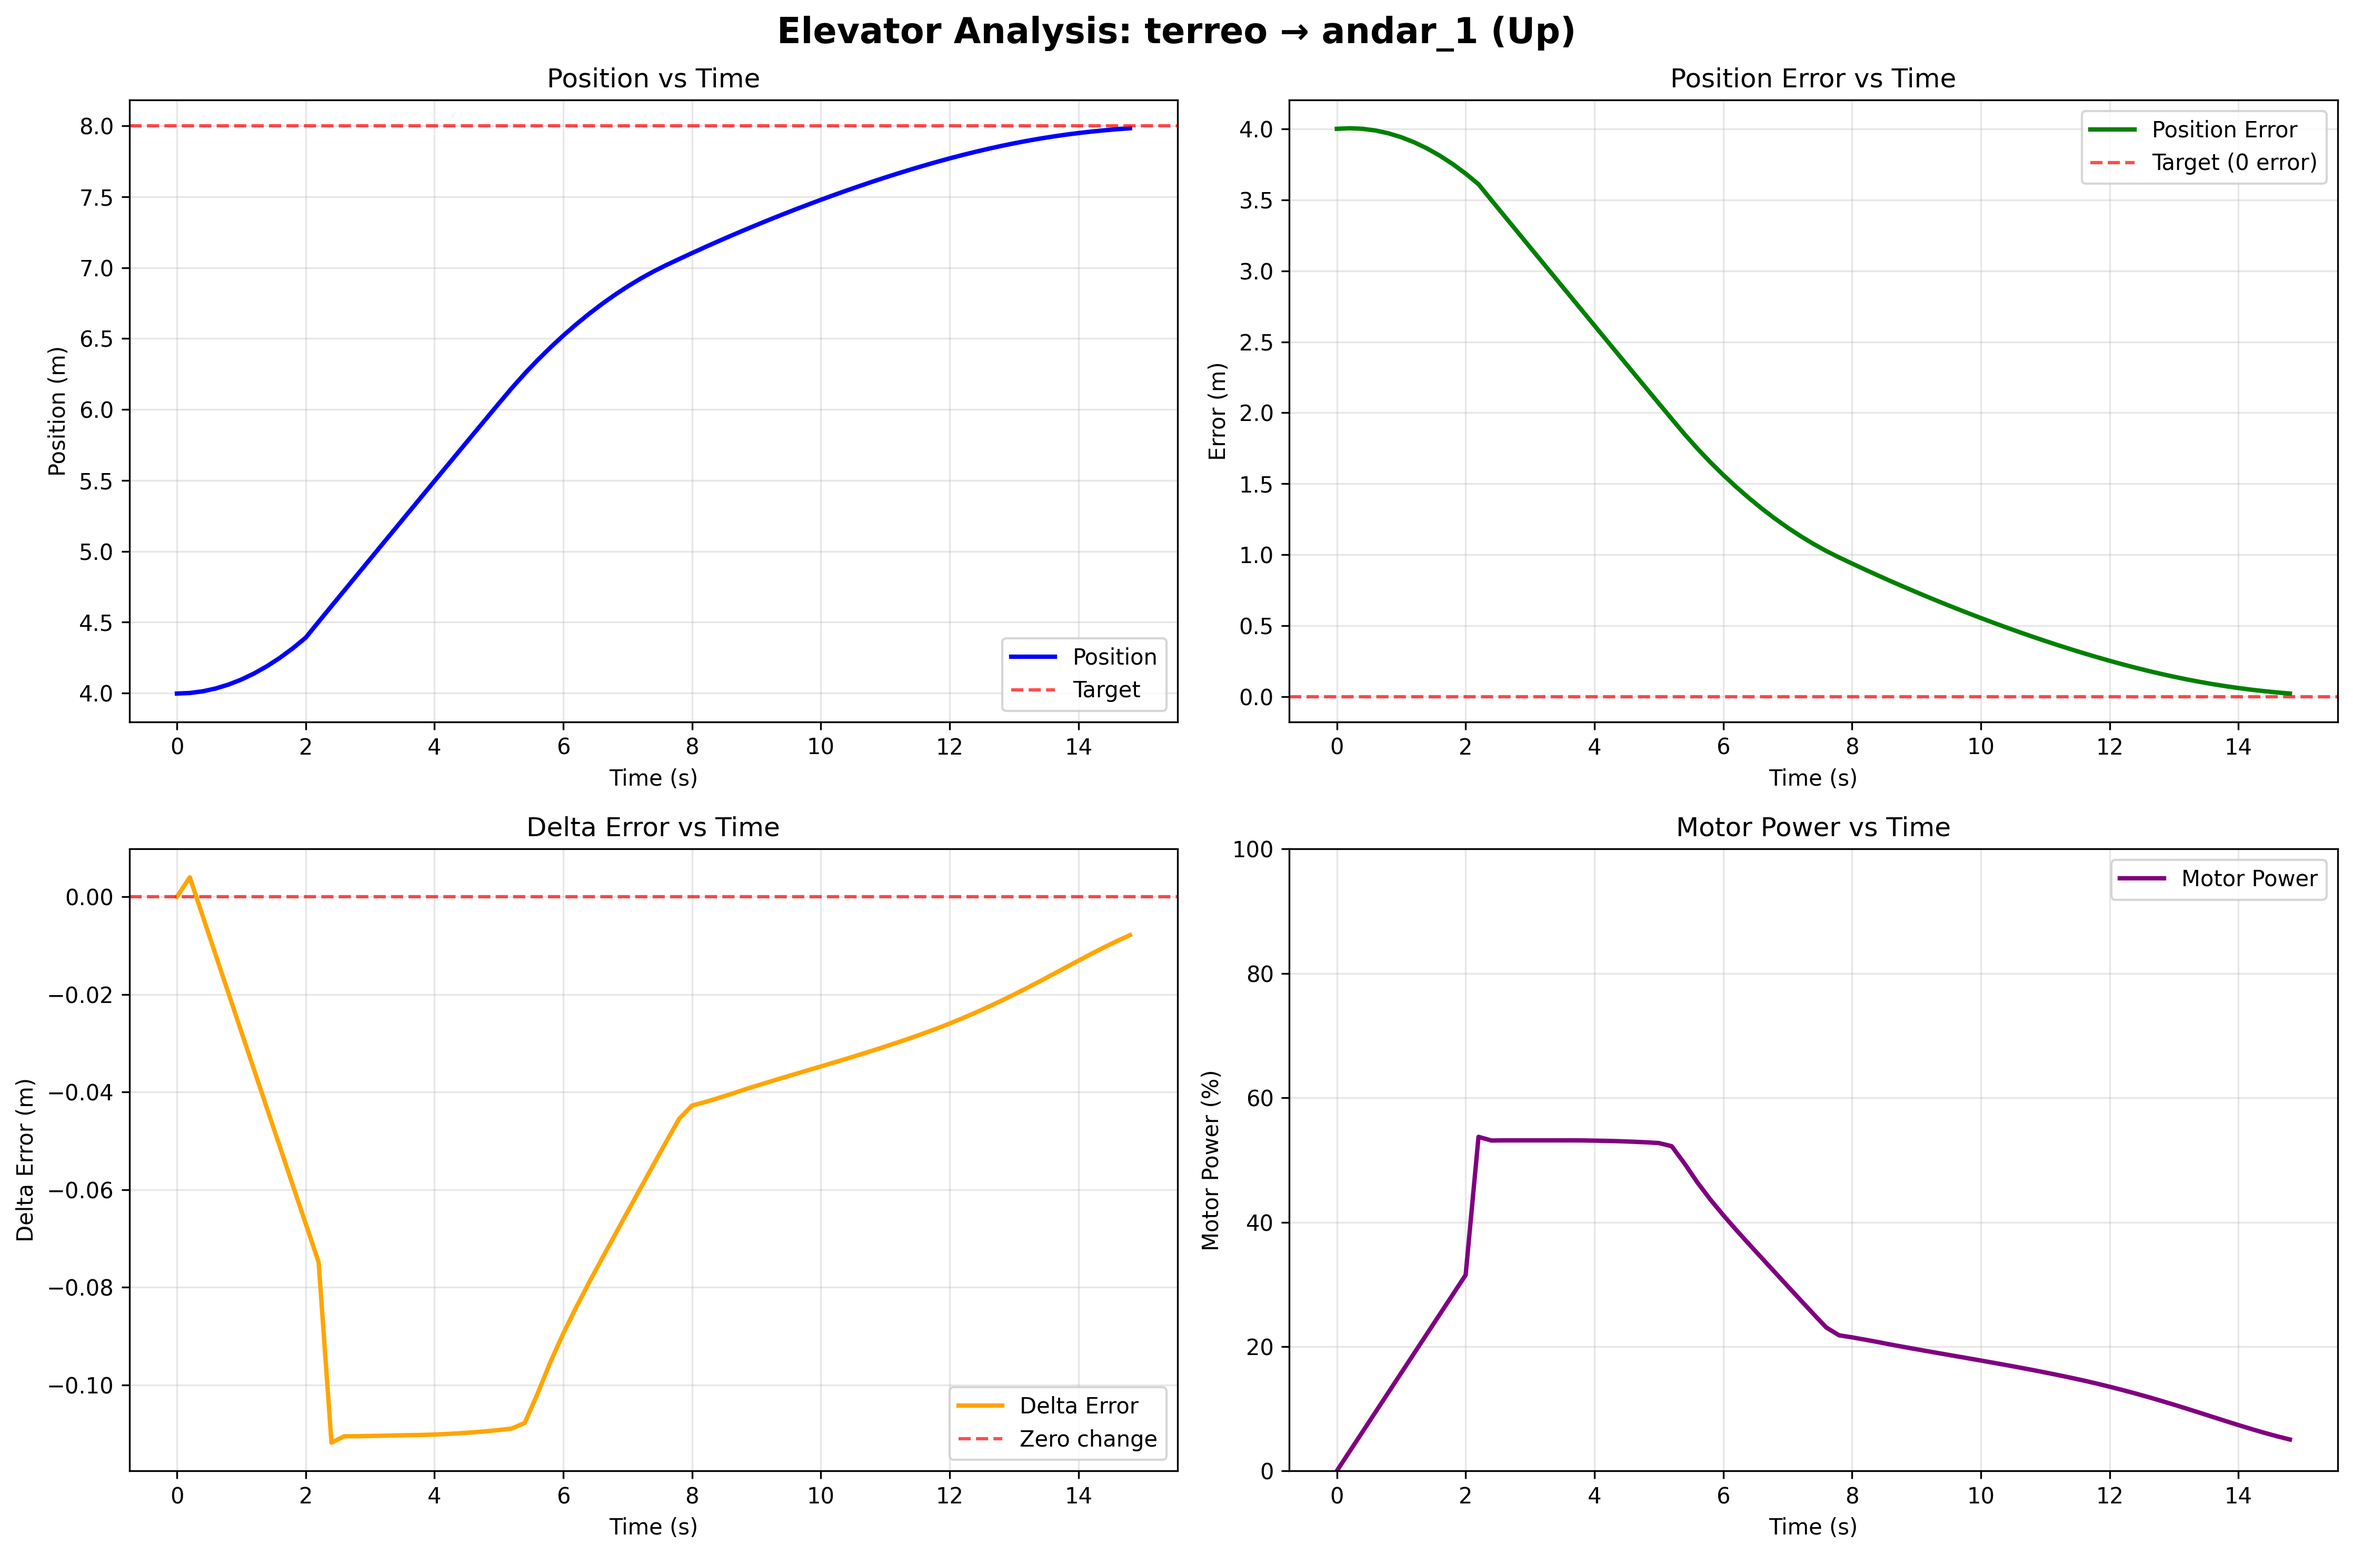
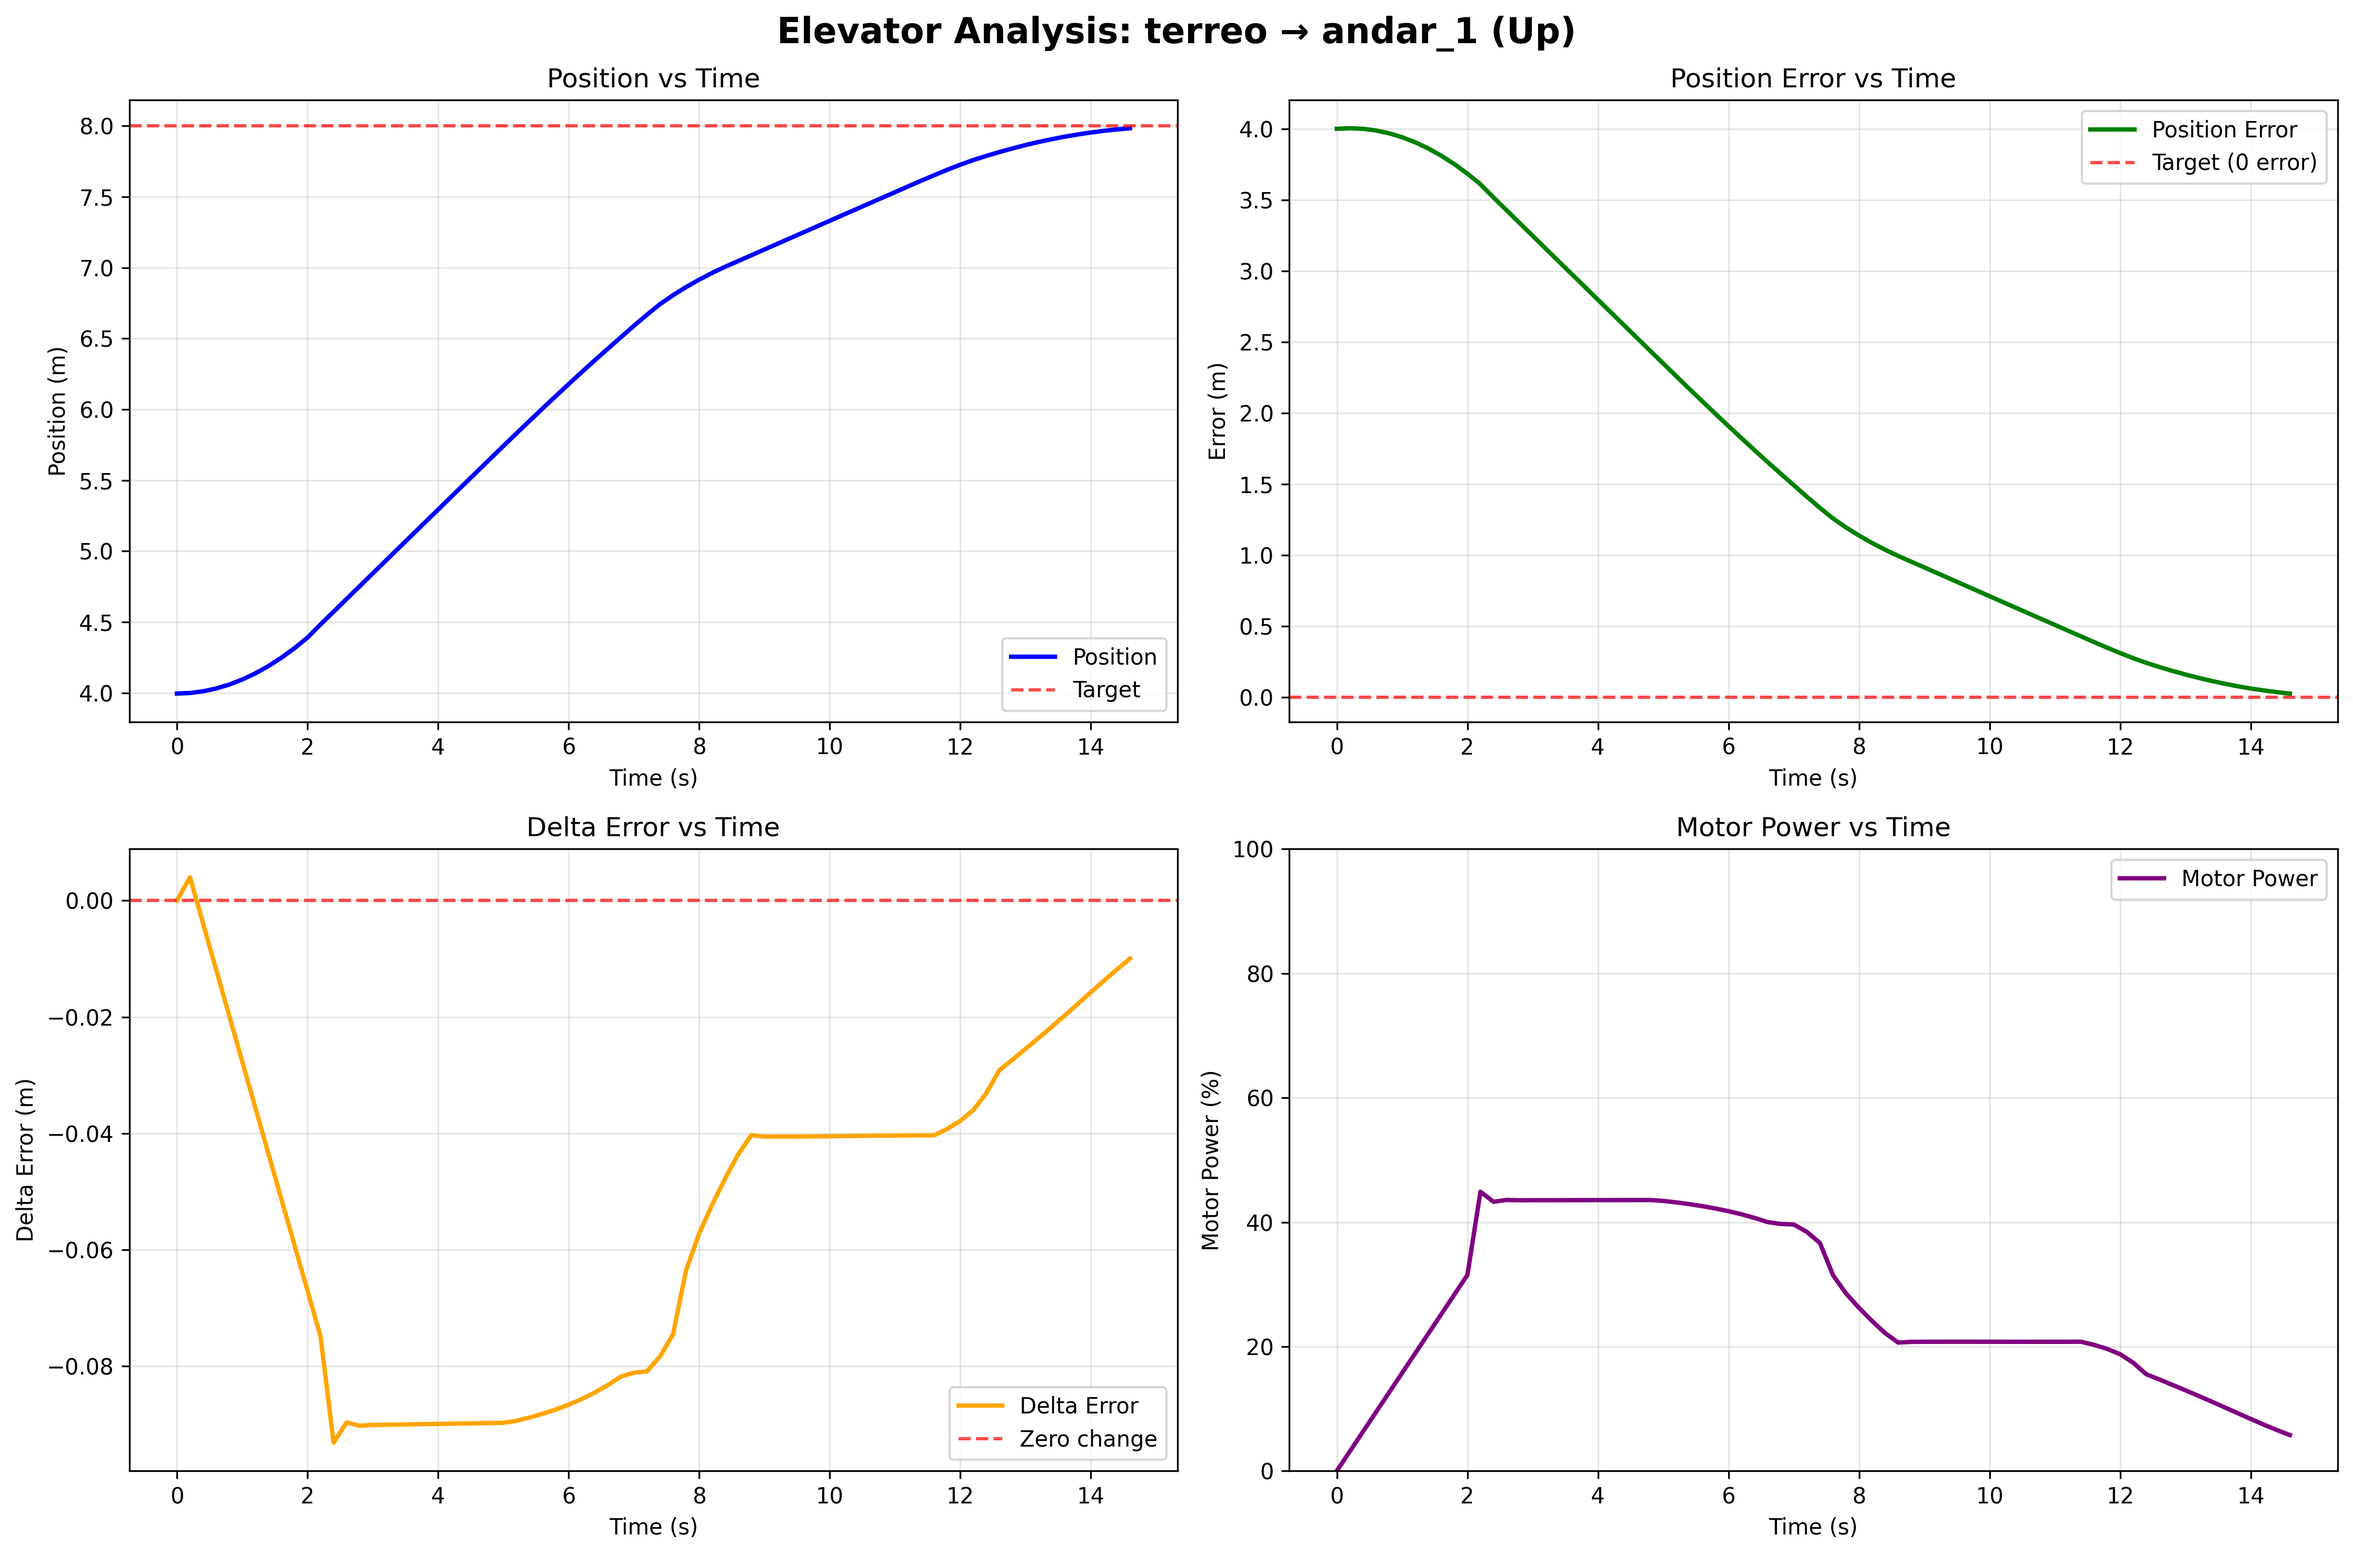
Mudando pace

diff --git a/debug_oscillation.py b/debug_oscillation.py
@@ -1,0 +1,85 @@
+#!/usr/bin/env python3
+"""
+Debug detalhado da oscilação da potência
+"""
+
+from elevator_fuzzy_controller import ElevatorFuzzyController
+import numpy as np
+import matplotlib.pyplot as plt
+
+def debug_oscillation():
+    controller = ElevatorFuzzyController()
+    
+    print("🔍 Debug detalhado da oscilação...")
+    result = controller.simulate_movement('terreo', 'andar_2', max_time=20.0)
+    
+    # Dados da simulação
+    time_data = result['time']
+    position_data = result['position']
+    error_data = result['error']
+    motor_power_data = result['motor_power']
+    
+    print(f"Simulação: Térreo → Andar 2")
+    print(f"Tempo total: {result['final_time']:.1f}s")
+    print(f"Erro final: {result['final_error_mm']:.1f}mm")
+    print(f"Número de pontos: {len(time_data)}")
+    
+    # Análise da potência na segunda metade
+    mid_point = len(motor_power_data) // 2
+    late_power = motor_power_data[mid_point:]
+    late_time = time_data[mid_point:]
+    late_error = error_data[mid_point:]
+    
+    print(f"\nAnálise da segunda metade (t > {late_time[0]:.1f}s):")
+    print(f"Potência média: {np.mean(late_power):.2f}%")
+    print(f"Desvio padrão: {np.std(late_power):.2f}%")
+    print(f"Min/Max: {min(late_power):.1f}% / {max(late_power):.1f}%")
+    print(f"Variação: {max(late_power) - min(late_power):.1f}%")
+    
+    # Detecta mudanças bruscas na potência
+    power_changes = []
+    for i in range(1, len(motor_power_data)):
+        change = abs(motor_power_data[i] - motor_power_data[i-1])
+        if change > 5:  # Mudança maior que 5%
+            power_changes.append((time_data[i], change, motor_power_data[i-1], motor_power_data[i]))
+    
+    print(f"\nMudanças bruscas na potência (>5%):")
+    for t, change, prev, curr in power_changes[-10:]:  # Últimas 10
+        print(f"t={t:.2f}s: {prev:.1f}% → {curr:.1f}% (Δ={change:.1f}%)")
+    
+    # Criar gráfico
+    fig, (ax1, ax2, ax3) = plt.subplots(3, 1, figsize=(12, 10))
+    
+    # Posição vs tempo
+    ax1.plot(time_data, position_data, 'b-', linewidth=2, label='Posição')
+    ax1.axhline(y=7.0, color='r', linestyle='--', alpha=0.7, label='Alvo (7m)')
+    ax1.set_ylabel('Posição (m)')
+    ax1.legend()
+    ax1.grid(True, alpha=0.3)
+    ax1.set_title('Movimento do Elevador: Térreo → Andar 2')
+    
+    # Erro vs tempo
+    ax2.plot(time_data, error_data, 'g-', linewidth=2, label='Erro')
+    ax2.axhline(y=0, color='k', linestyle='--', alpha=0.7)
+    ax2.set_ylabel('Erro (m)')
+    ax2.legend()
+    ax2.grid(True, alpha=0.3)
+    
+    # Potência vs tempo
+    ax3.plot(time_data, motor_power_data, 'r-', linewidth=2, label='Potência do Motor')
+    ax3.set_ylabel('Potência (%)')
+    ax3.set_xlabel('Tempo (s)')
+    ax3.legend()
+    ax3.grid(True, alpha=0.3)
+    
+    # Destaca a segunda metade
+    ax3.axvline(x=late_time[0], color='orange', linestyle='--', alpha=0.7, label='Segunda metade')
+    
+    plt.tight_layout()
+    plt.savefig('debug_oscillation.png', dpi=150, bbox_inches='tight')
+    plt.show()
+    
+    print(f"\nGráfico salvo em: debug_oscillation.png")
+
+if __name__ == "__main__":
+    debug_oscillation()

diff --git a/elevator_fuzzy_controller.py b/elevator_fuzzy_controller.py
@@ -69,10 +69,10 @@ class ElevatorFuzzyController:
         """Setup the fuzzy control system with membership functions and rules"""
           # Define input and output variables
         # Error range: considering maximum building height displacement (0 to 36m)
-        self.error = ctrl.Antecedent(np.arange(0, 37, 1), 'error')
+        self.error = ctrl.Antecedent(np.arange(0, 37, 0.25), 'error')
         
         # Delta error range: rate of change of error
-        self.delta_error = ctrl.Antecedent(np.arange(-10, 11, 1), 'delta_error')
+        self.delta_error = ctrl.Antecedent(np.arange(-10, 11, 0.25), 'delta_error')
         
         # Motor power output: 0-100%
         self.motor_power = ctrl.Consequent(np.arange(0, 101, 1), 'motor_power')
